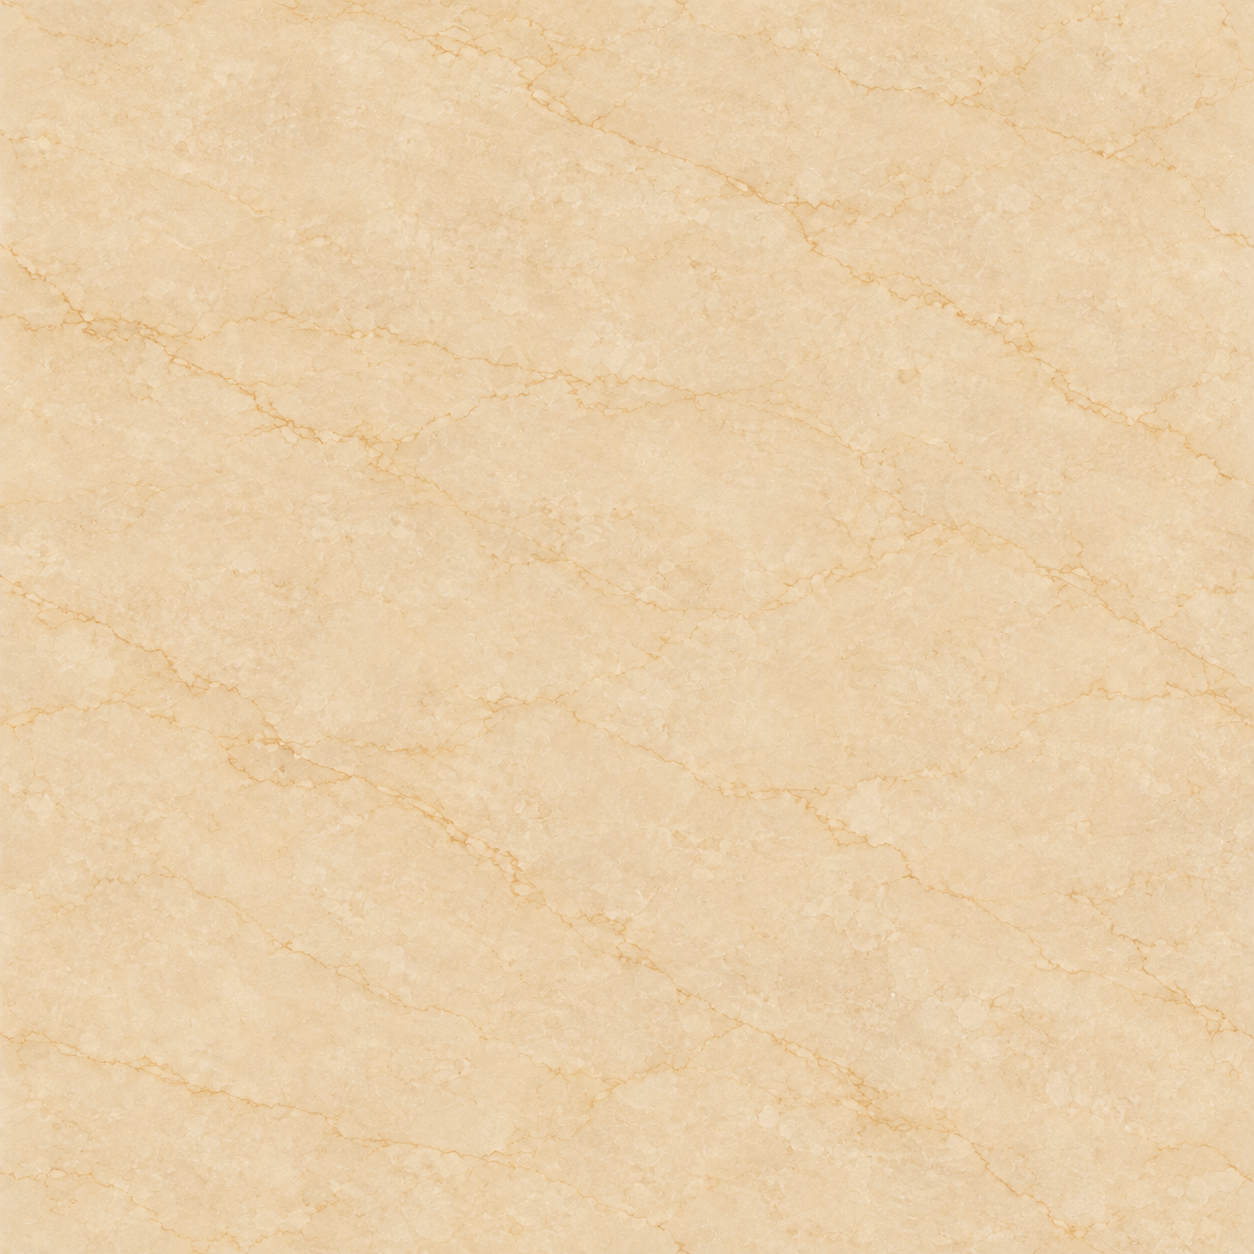
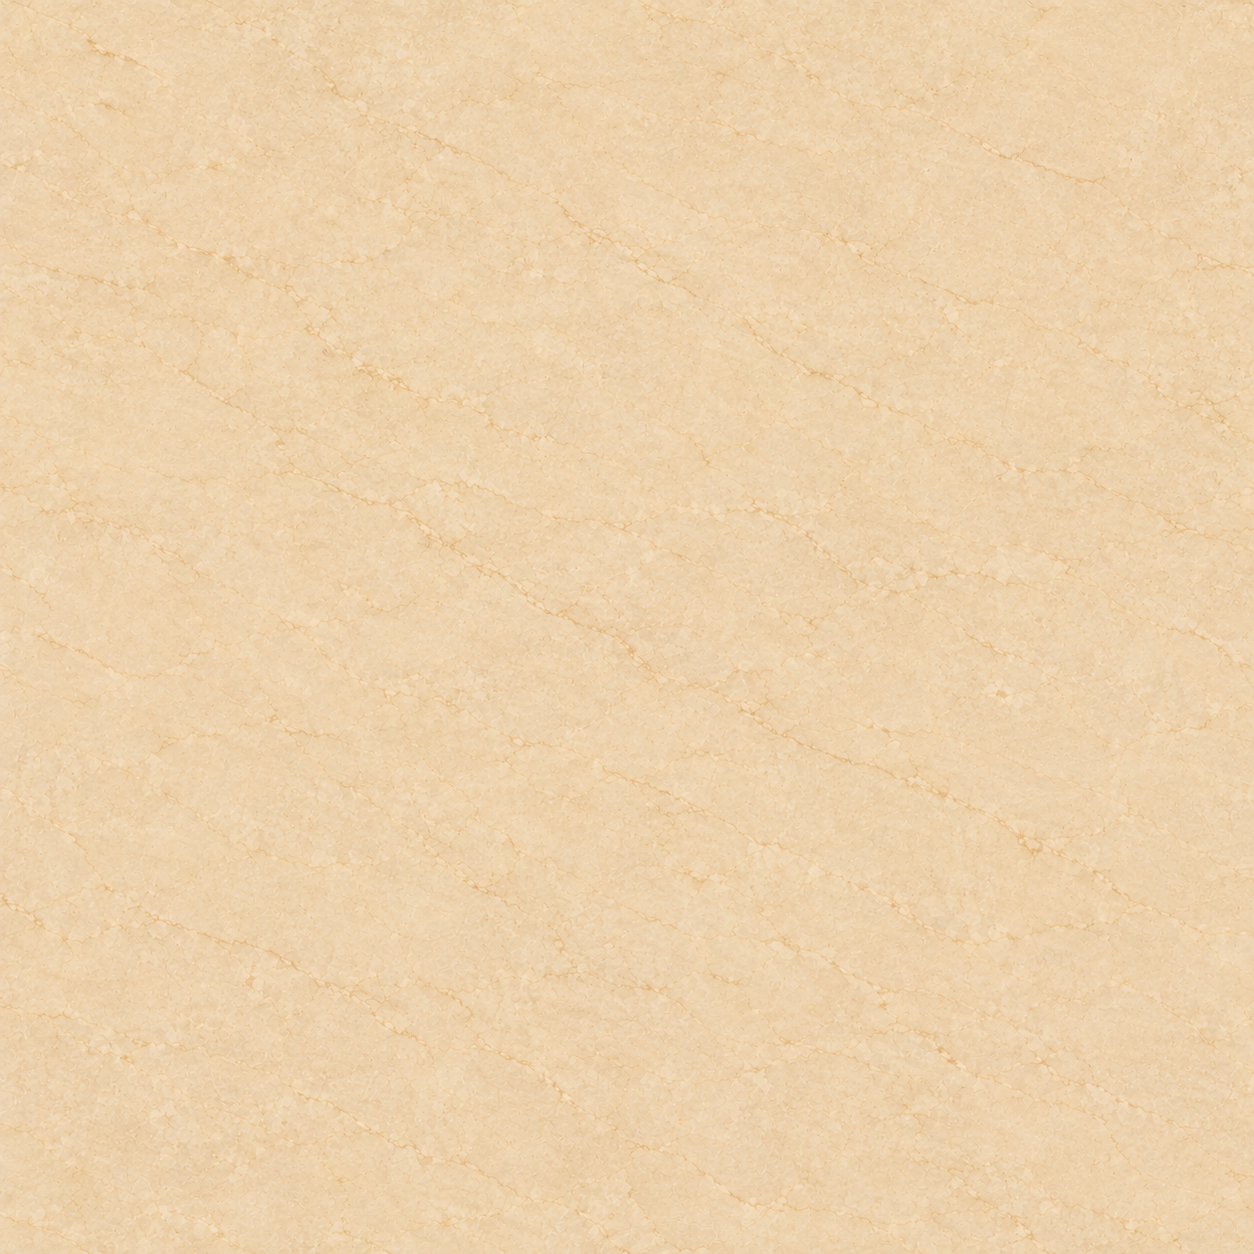
Preserve original marble character with finer full-slab scale

diff --git a/public/js/render.js b/public/js/render.js
@@ -539,7 +539,7 @@ function materialLoaded(){
     if(document.getElementById('scr-settings')?.classList.contains('active'))global.renderSettings?.();
 }
 stoneMaterial.onload=materialLoaded;walnutMaterial.onload=materialLoaded;
-stoneMaterial.src='img/beige-stone.png';walnutMaterial.src='img/dark-walnut.png';
+stoneMaterial.src='img/beige-stone.png?v=3';walnutMaterial.src='img/dark-walnut.png';
 function feltTexture(w) {
     const T=currentTheme(),key=w.size+'|'+T.id+'|'+stoneTextureReady();
     if(feltCache?.key===key)return feltCache.cnv;
@@ -547,6 +547,7 @@ function feltTexture(w) {
     const g=cnv.getContext('2d');
     g.fillStyle=T.id==='classic'?'#ead9b9':T.felt1;g.fillRect(0,0,w.size,w.size);
     if(stoneTextureReady()){
+        // One complete 2m x 2m marble slab spans the field; never tile a small sample.
         g.drawImage(stoneMaterial,0,0,w.size,w.size);
         if(T.id!=='classic'){
             g.globalCompositeOperation='multiply';g.fillStyle=T.felt1;g.fillRect(0,0,w.size,w.size);

diff --git a/public/game.html b/public/game.html
@@ -321,7 +321,7 @@
 <script src="js/net.js?v=101"></script>
 <script src="js/lan.js?v=91"></script>
 <script src="js/i18n.js?v=113"></script>
-<script src="js/render.js?v=113"></script>
+<script src="js/render.js?v=115"></script>
 <script src="js/tests.js?v=85"></script>
 <script src="js/chat.js?v=6"></script>
 <script src="js/daily.js?v=3"></script>
